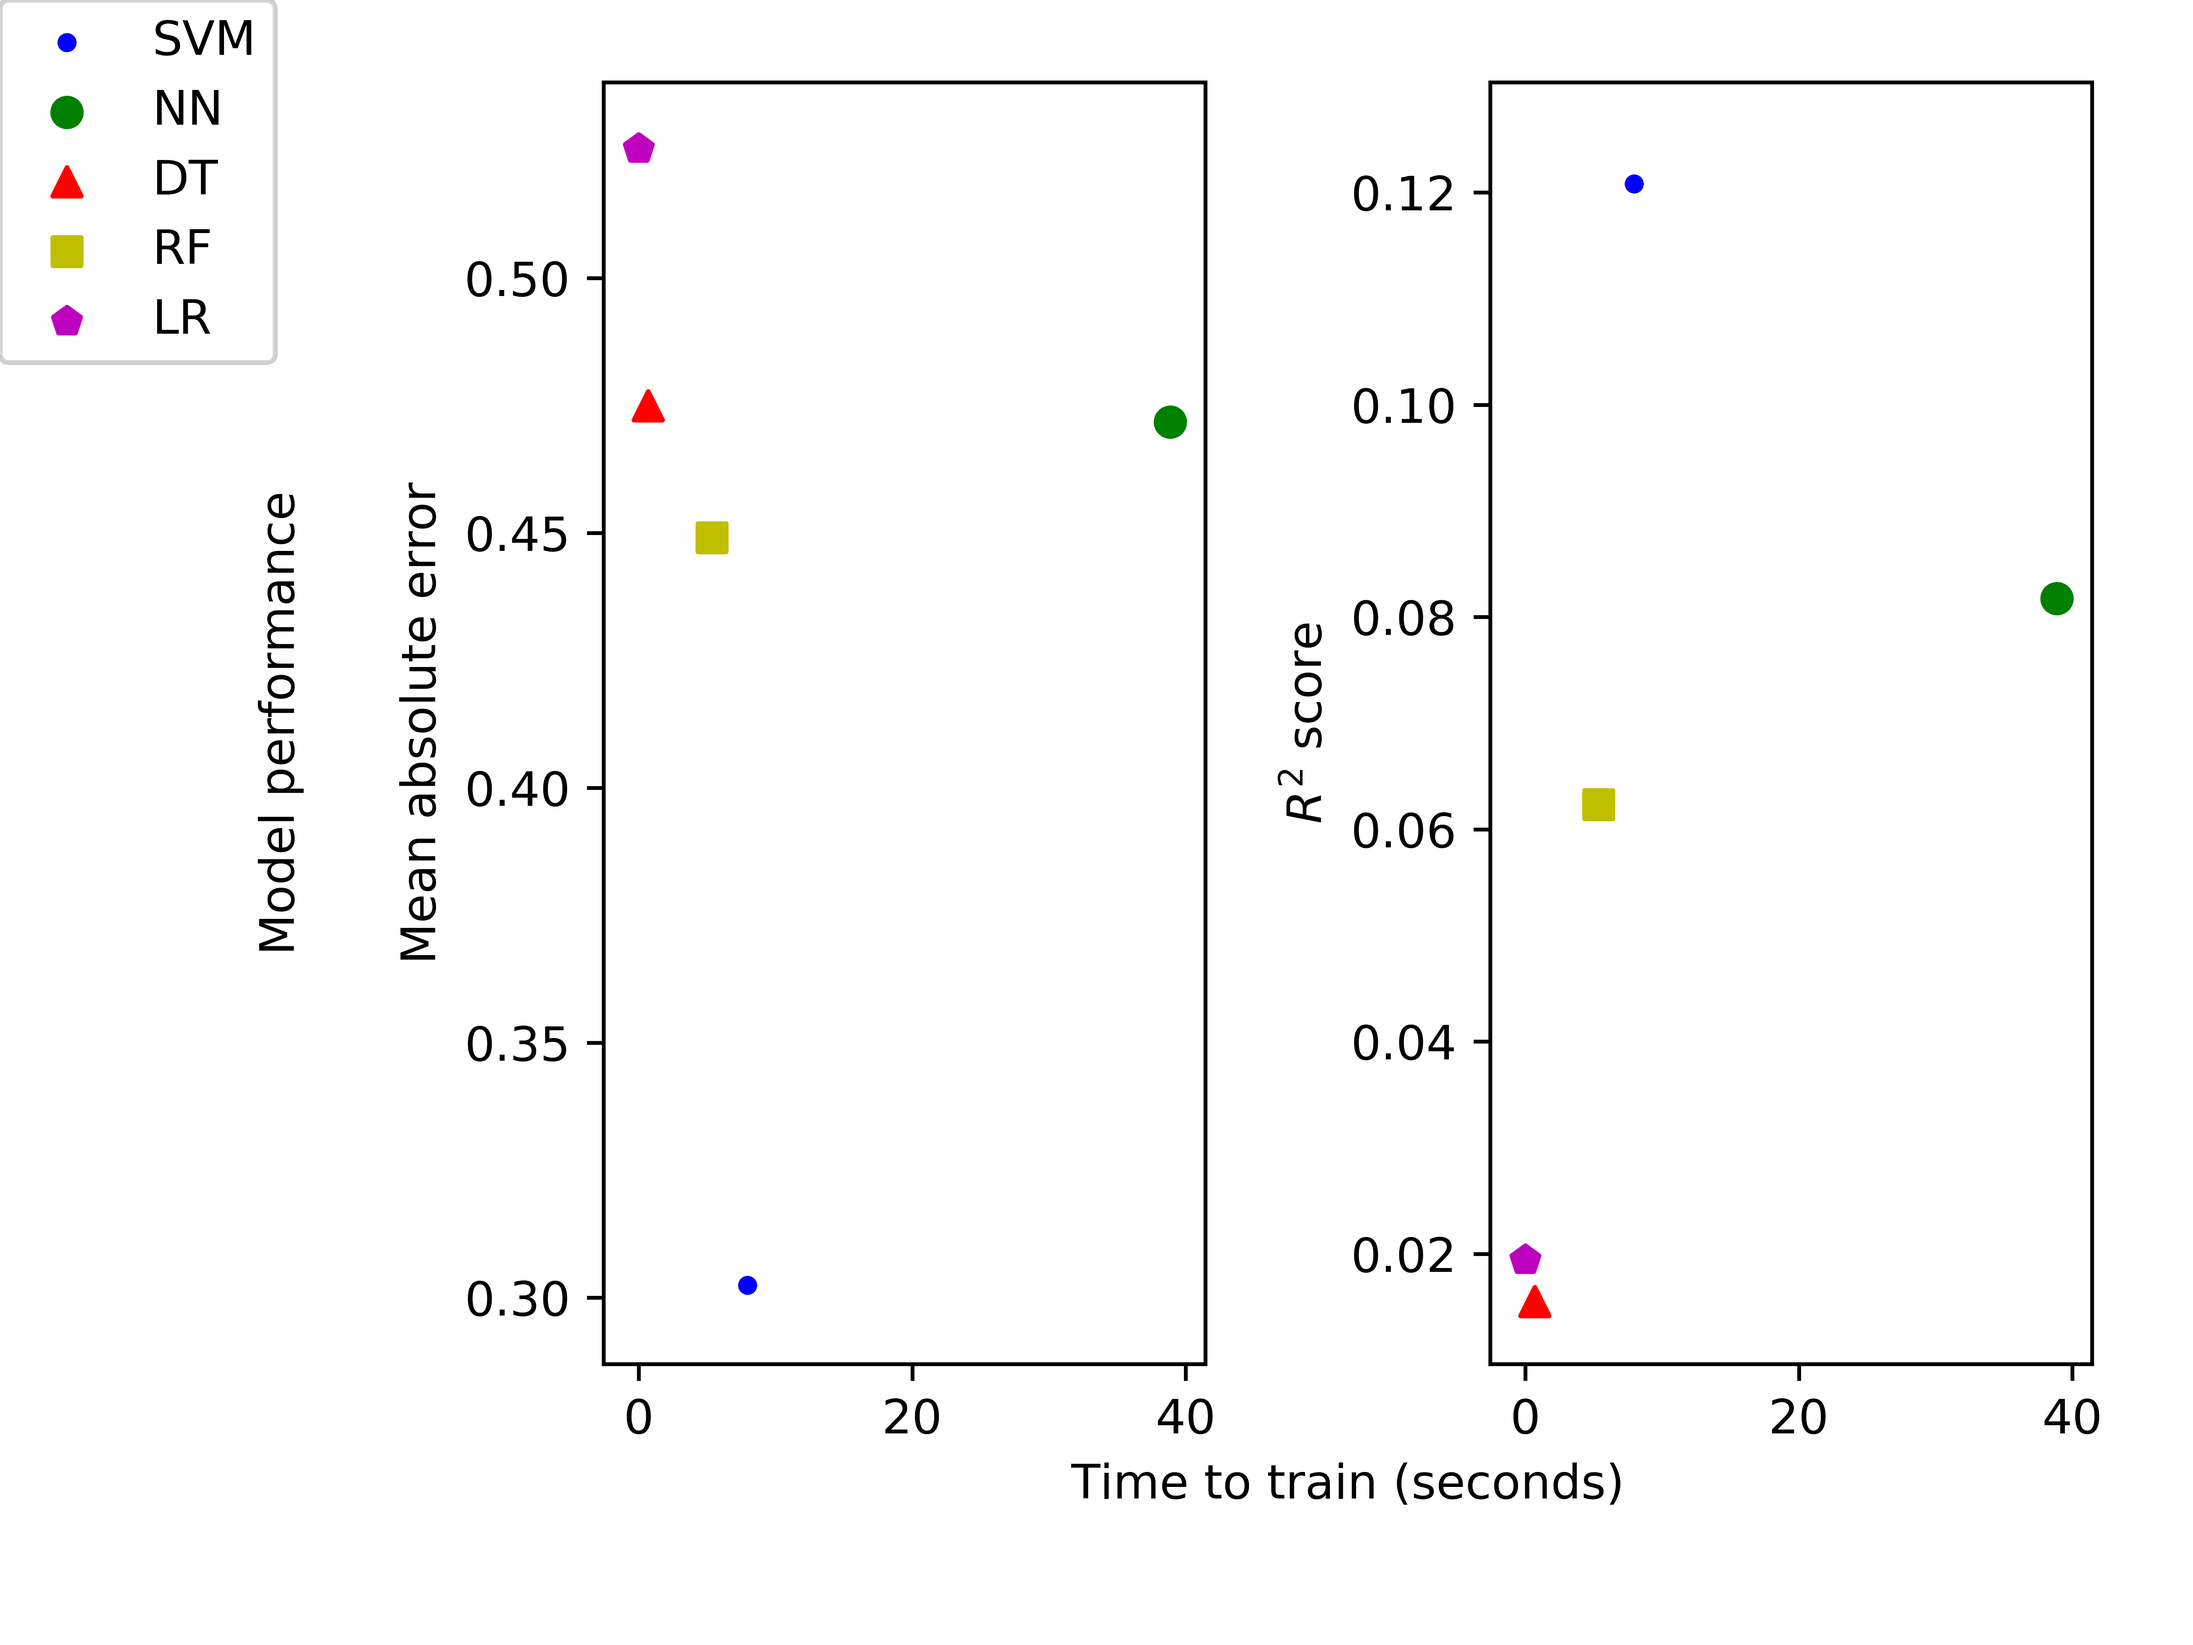
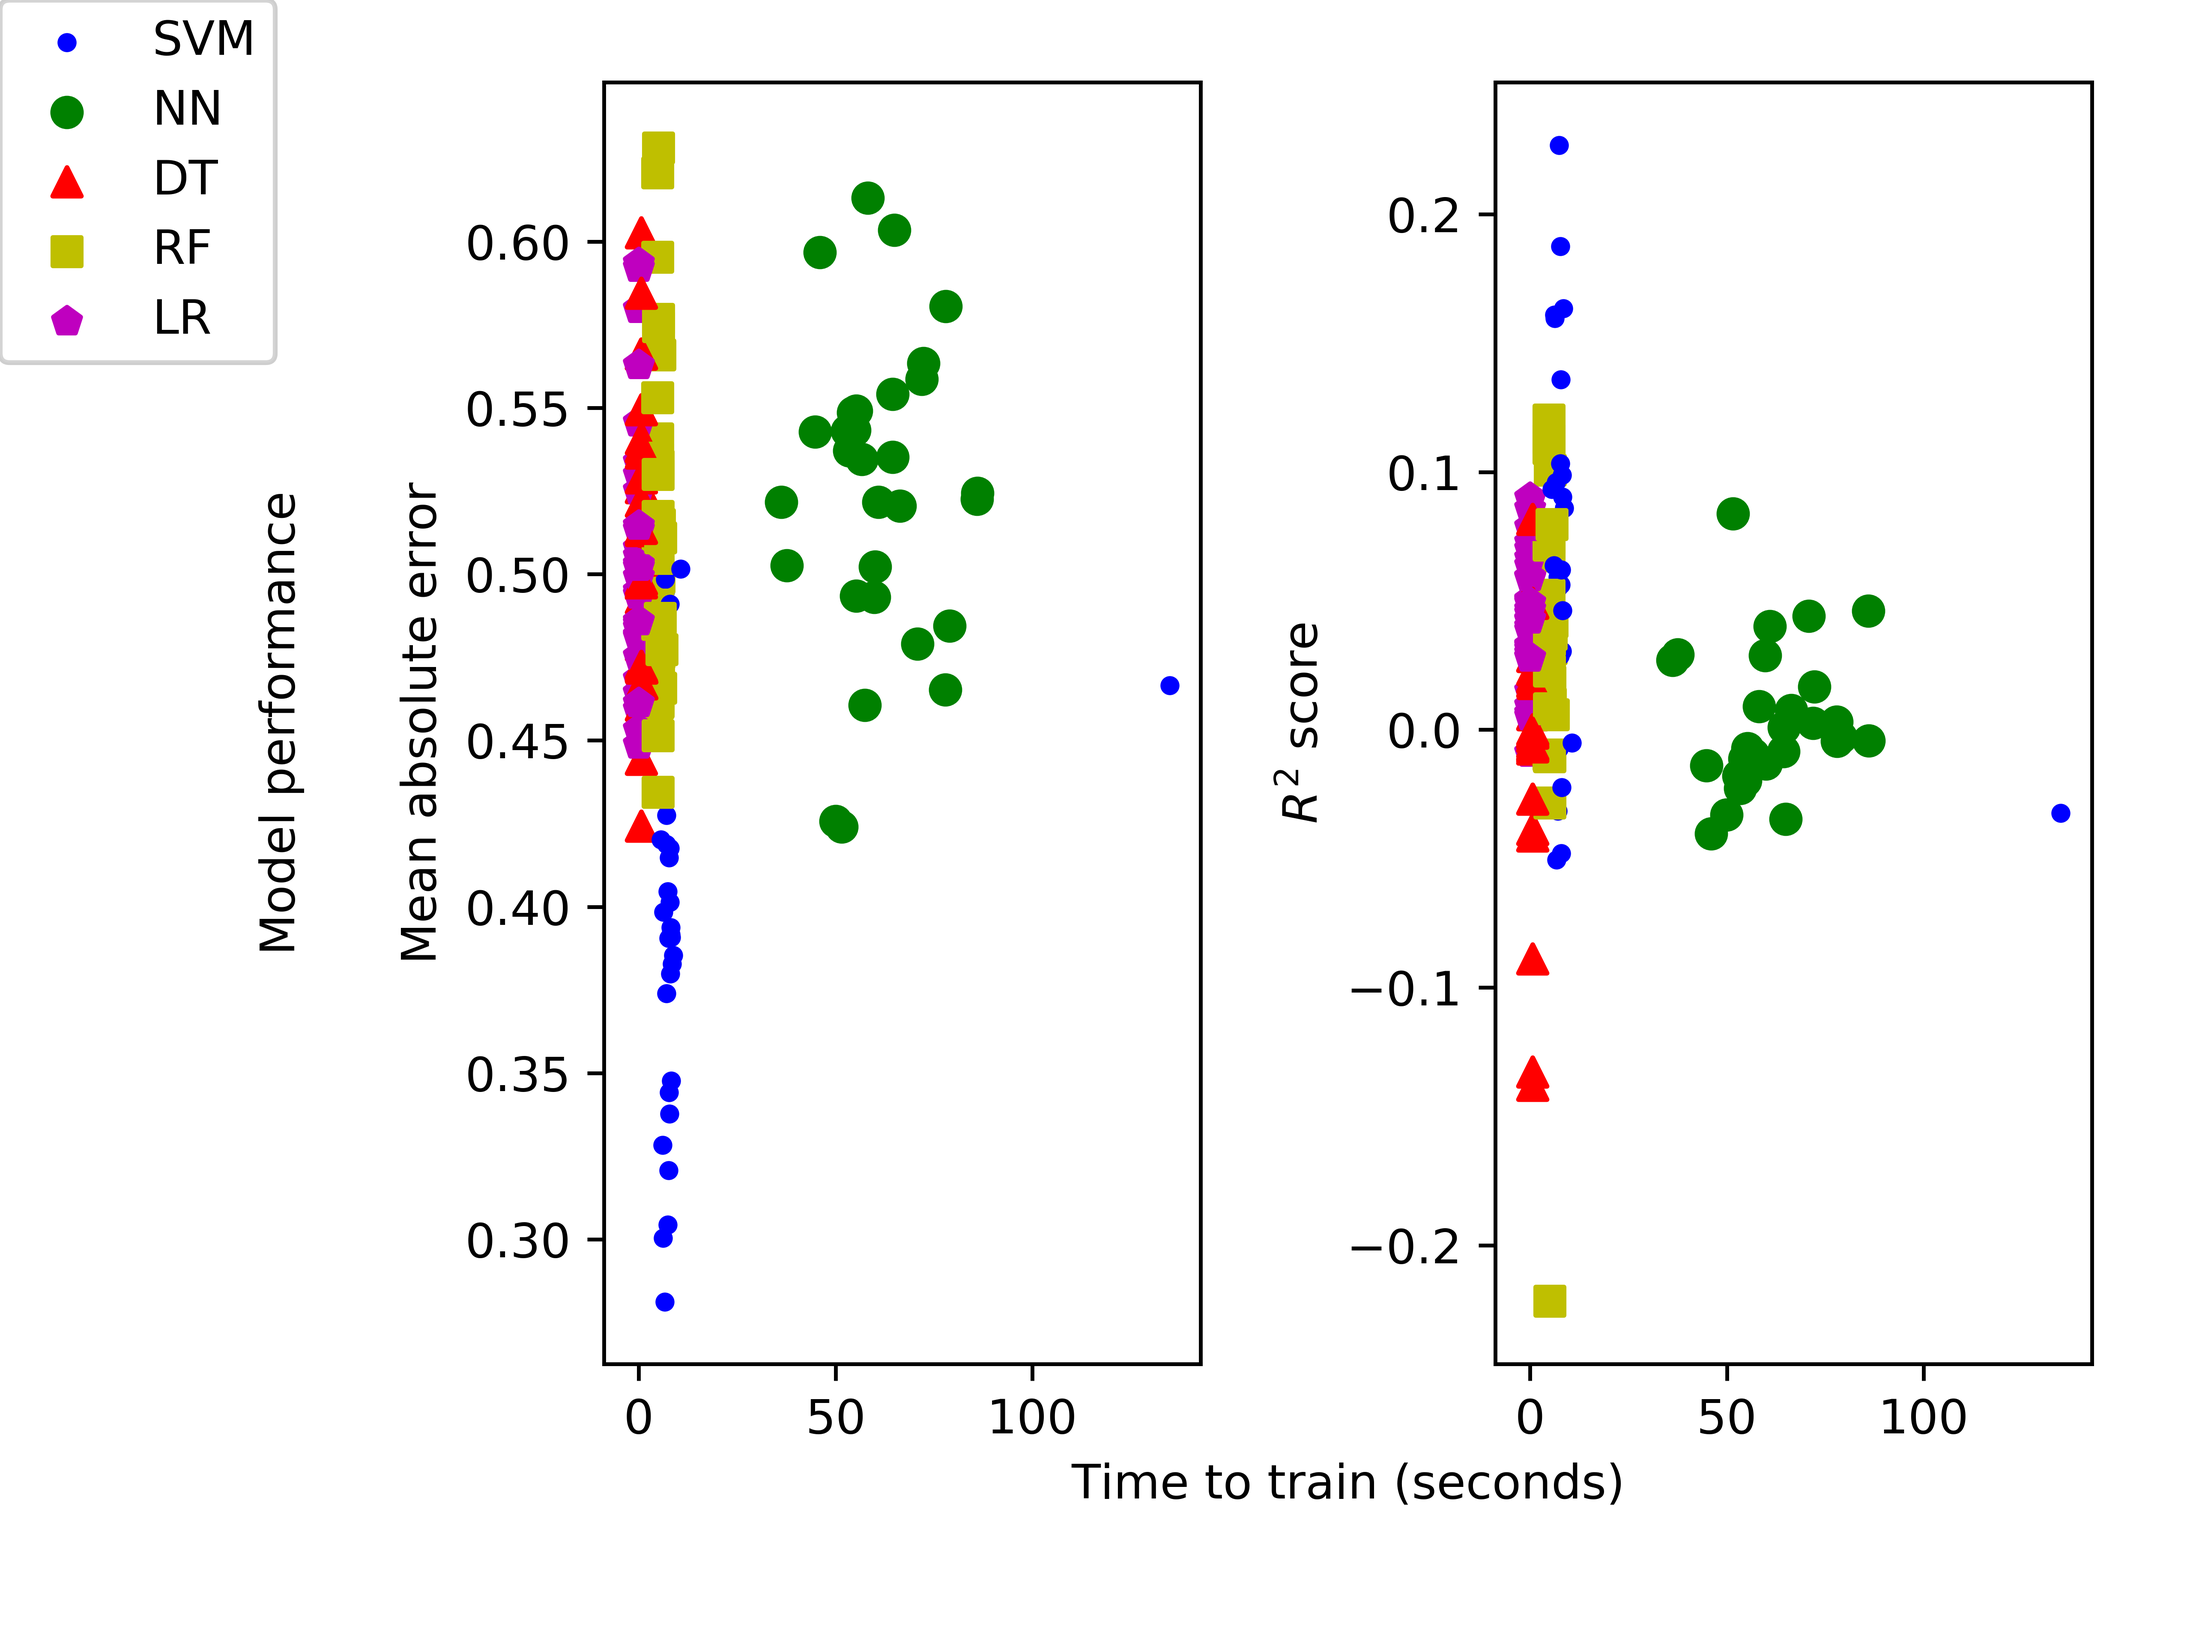
update image

diff --git a/ml.py b/ml.py
@@ -28,7 +28,7 @@ def getDataLabeled():
             cell.insert(0, ord(cell[0][0]))
             cell[1] = cell[1][1:]
             features.append(cell)
-             classes.append(line[-1])
+            classes.append(line[-1])
     return Imputer(missing_values='NaN', strategy='mean', axis=0).fit(features).transform(features), np.array(classes, dtype=float)
 
 def stratify(data_X, data_y, feature):
@@ -100,7 +100,7 @@ ln = len(models)
 t = []
 y = [[] for i in range(ln)]
 nums = [[[] for j in range(ln)] for i in range(2)]
-n = 1
+n = 30
 for k in range(n):
     for i in range(ln):
         out = train(names[i], models[i], parameters[i], *getFinalData(), False)
